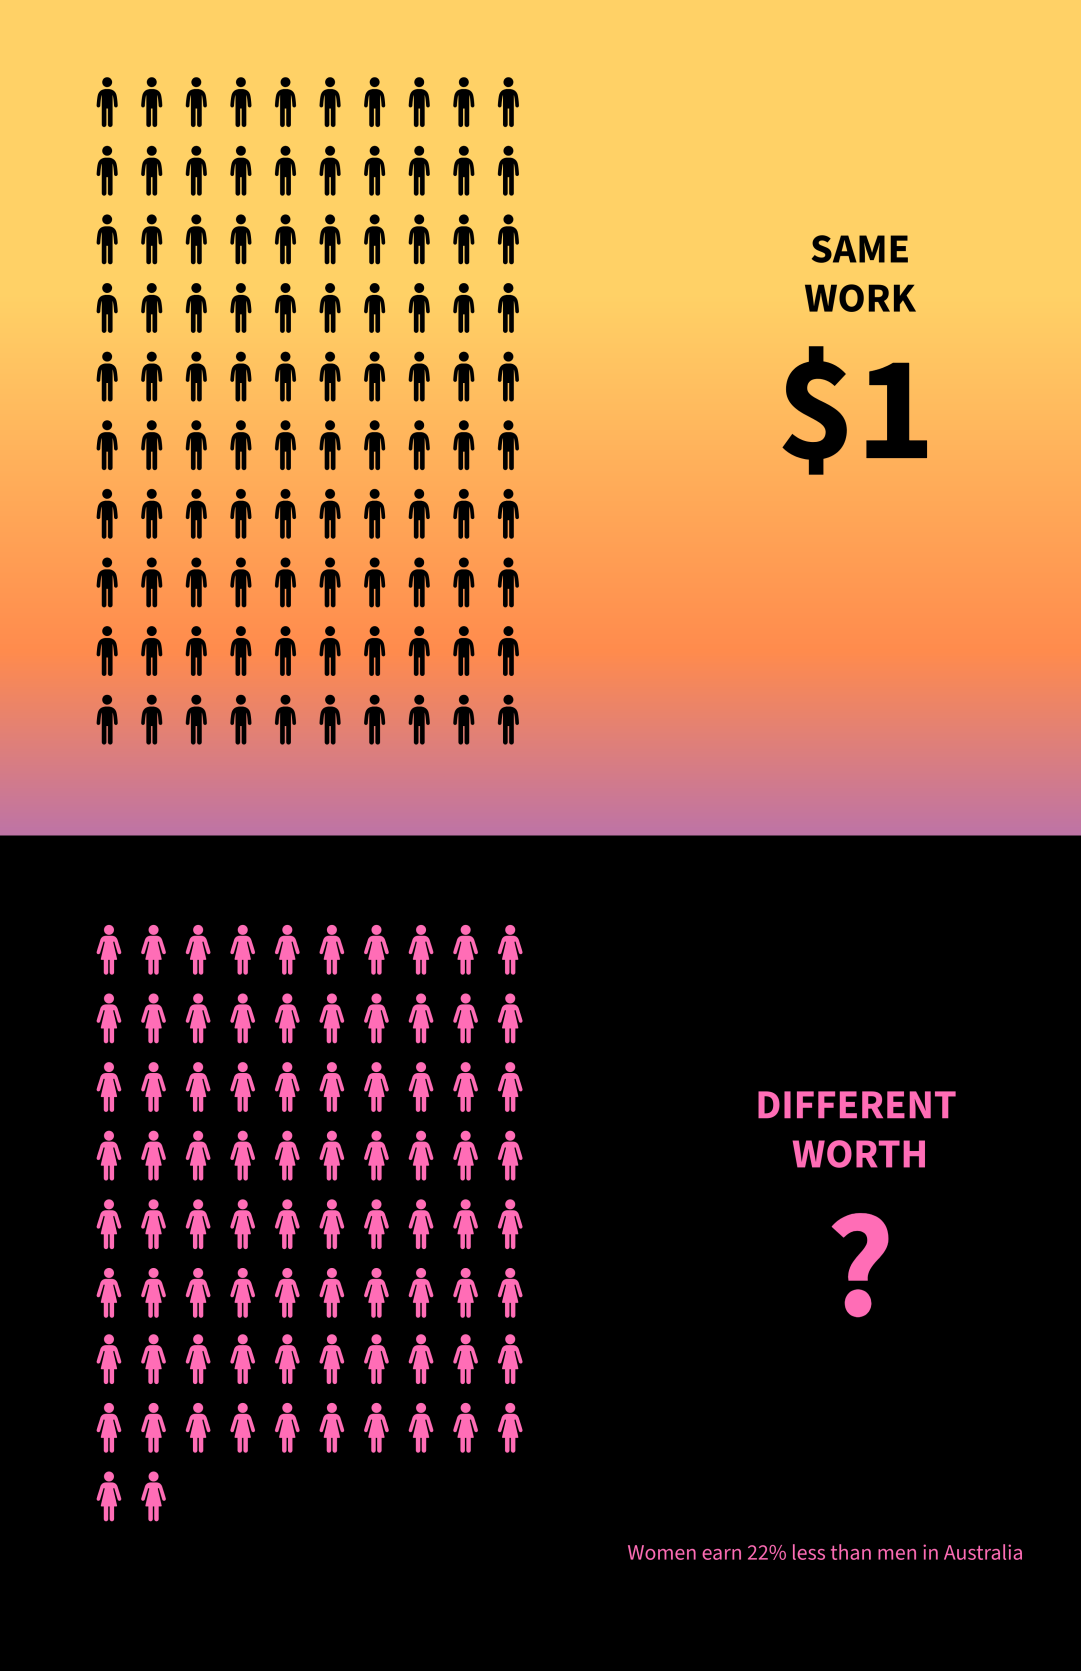
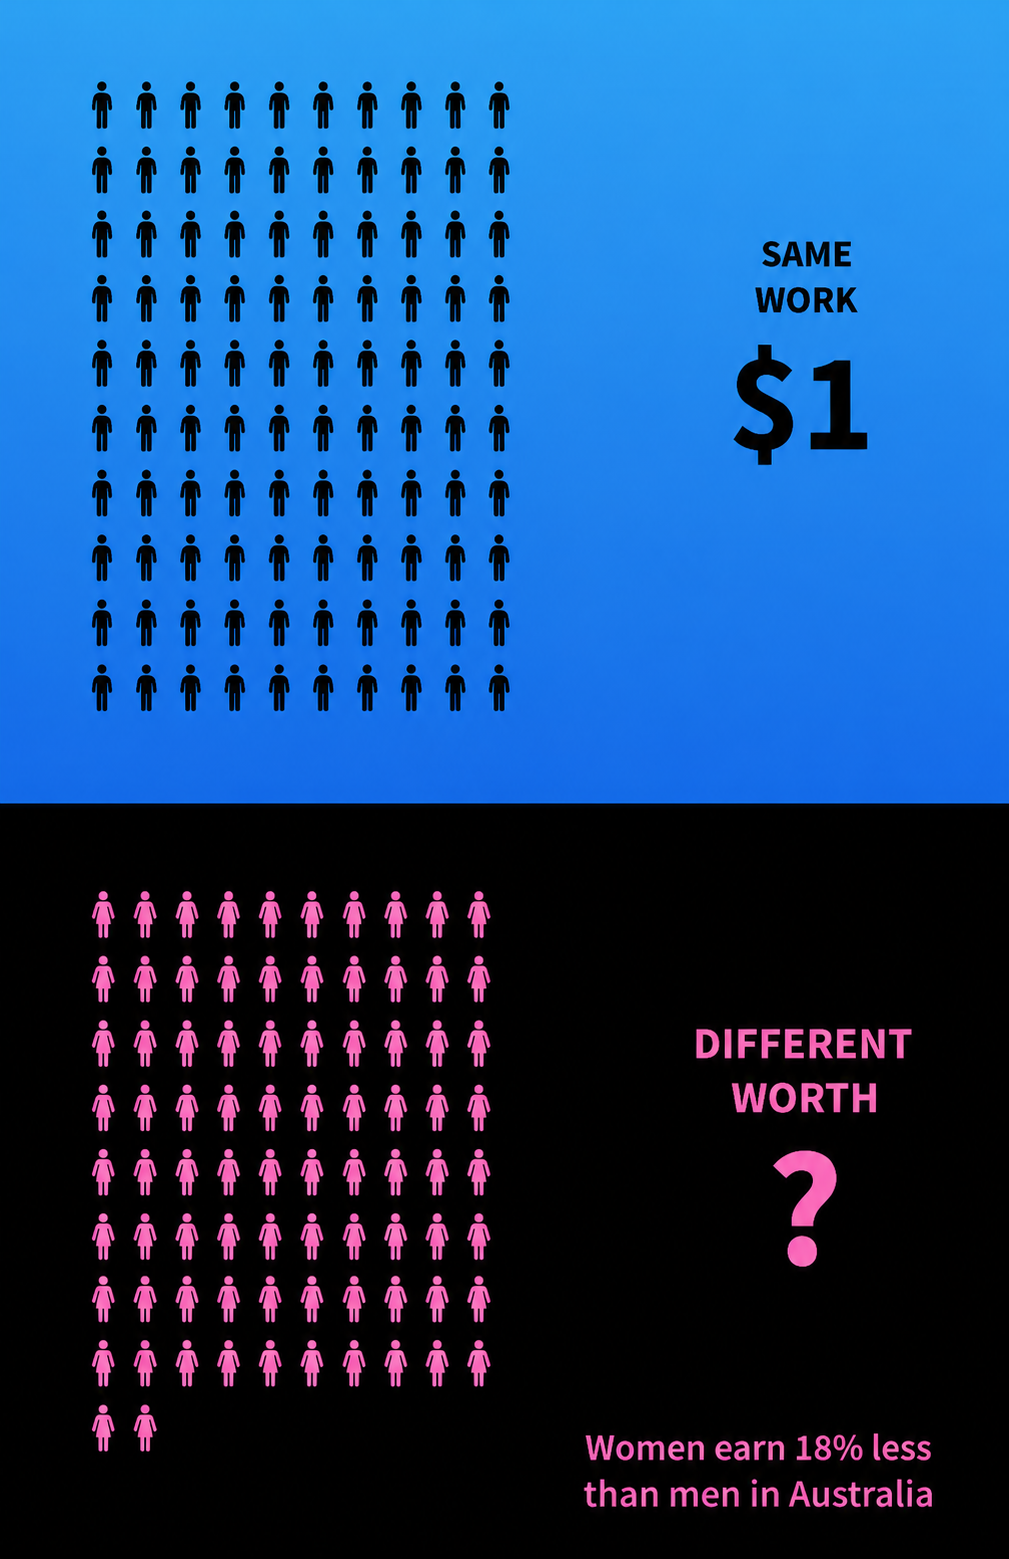
Add lightbox for clickable images, improve feel page content, fix padding, remove em dashes, and update poster images

diff --git a/public/artefacts.html b/public/artefacts.html
@@ -16,6 +16,54 @@
     />
     <link rel="stylesheet" href="styles.css" />
     <script src="script.js" defer></script>
+    <style>
+      .lightbox {
+        display: none;
+        position: fixed;
+        inset: 0;
+        background: rgba(0, 0, 0, 0.9);
+        z-index: 1000;
+        justify-content: center;
+        align-items: center;
+        padding: 2rem;
+      }
+      .lightbox.active {
+        display: flex;
+      }
+      .lightbox img {
+        max-width: 90%;
+        max-height: 90vh;
+        object-fit: contain;
+        border-radius: var(--radius-md);
+      }
+      .lightbox-close {
+        position: absolute;
+        top: 2rem;
+        right: 2rem;
+        background: rgba(255, 255, 255, 0.1);
+        border: none;
+        color: white;
+        font-size: 2rem;
+        width: 3rem;
+        height: 3rem;
+        border-radius: 50%;
+        cursor: pointer;
+        display: flex;
+        align-items: center;
+        justify-content: center;
+        transition: background 0.2s ease;
+      }
+      .lightbox-close:hover {
+        background: rgba(255, 255, 255, 0.2);
+      }
+      .clickable-image {
+        cursor: pointer;
+        transition: opacity 0.2s ease;
+      }
+      .clickable-image:hover {
+        opacity: 0.8;
+      }
+    </style>
   </head>
   <body data-page="artefacts">
     <div class="site-shell">
@@ -53,17 +101,17 @@
           <div>
             <p class="panel-label">Audio piece</p>
             <h3>An interview with Dr. Michaela Guthridge, Ph.D. on the neurological roots of the gender pay gap</h3>
-            <p>Dr. Michaela Guthridge, Ph.D. is an International Women & Girls's Rights Advocate, Empathy Expert, Strategic Thinker, and Social Innovator with 17 years' experience in global social justice research and advocacy. As Senior Policy & Research Officer at SNAICC - National Voice for our Children and former Research Officer at the National Centre for Action on Child Sexual Abuse, she explains how unconscious biases in the brain snowball into societal devaluation of women's work—and how we can retrain our minds to close the gap.</p>
+            <p>Dr. Michaela Guthridge, Ph.D. is an International Women & Girls's Rights Advocate, Empathy Expert, Strategic Thinker, and Social Innovator with 17 years' experience in global social justice research and advocacy. As Senior Policy & Research Officer at SNAICC - National Voice for our Children and former Research Officer at the National Centre for Action on Child Sexual Abuse, she explains how unconscious biases in the brain snowball into societal devaluation of women's work -and how we can retrain our minds to close the gap.</p>
             <details class="podcast-summary">
               <summary>View interview summary</summary>
               <div class="summary-content">
                 <h4>Key Outcomes</h4>
                 <p>Dr. Michaela Guthridge explained the gender wage gap as rooted in neurological unconscious biases that snowball into societal devaluation of women's work, rather than starting at the macro societal level. She emphasized that addressing the gap requires retraining individual brains to form positive associations with women and work, not just policy changes.</p>
                 <h4>Core Insights</h4>
-                <p><strong>Root Cause: Unconscious Bias</strong> — The wage gap originates in the brain's discriminatory processes that form unconscious biases about women's value, which evolve into stereotypes and sexism. These biases lead society to view women's work as "natural" and therefore economically undervalued.</p>
-                <p><strong>Economic Devaluation of Care Work</strong> — Women's care and emotional labor face economic undervaluing facilitated by unconscious biases that consider such work natural rather than skilled. The question of why only women have "moral obligations" for care work is itself problematic—fathers equally have moral implications for caring responsibilities.</p>
-                <p><strong>Effective Intervention: Making Invisible Labor Visible</strong> — A Nepal research project successfully changed community attitudes by having women document all unpaid care responsibilities on top of paid work. When presented to men in the community, this documentation created an "eye-opener" moment that led to new understanding of respect and equality.</p>
-                <p><strong>Path Forward: Brain Retraining Strategy</strong> — Solution requires retraining the brain to create positive associations when seeing women and work, rather than negative ones. Focus on enabling girls to imagine education, employment, and contributions beyond the lowest economic rungs.</p>
+                <p><strong>Root Cause: Unconscious Bias</strong>  - The wage gap originates in the brain's discriminatory processes that form unconscious biases about women's value, which evolve into stereotypes and sexism. These biases lead society to view women's work as "natural" and therefore economically undervalued.</p>
+                <p><strong>Economic Devaluation of Care Work</strong>  - Women's care and emotional labor face economic undervaluing facilitated by unconscious biases that consider such work natural rather than skilled. The question of why only women have "moral obligations" for care work is itself problematic -fathers equally have moral implications for caring responsibilities.</p>
+                <p><strong>Effective Intervention: Making Invisible Labor Visible</strong>  - A Nepal research project successfully changed community attitudes by having women document all unpaid care responsibilities on top of paid work. When presented to men in the community, this documentation created an "eye-opener" moment that led to new understanding of respect and equality.</p>
+                <p><strong>Path Forward: Brain Retraining Strategy</strong>  - Solution requires retraining the brain to create positive associations when seeing women and work, rather than negative ones. Focus on enabling girls to imagine education, employment, and contributions beyond the lowest economic rungs.</p>
               </div>
             </details>
           </div>
@@ -71,10 +119,10 @@
 
         <article class="panel media-panel">
           <div class="artifact-mosaic">
-            <img src="assets/infographic-1.webp" alt="Gauge graphic showing a 22.8 percent manager pay gap" />
-            <img src="assets/infographic-2.webp" alt="Bar graphic comparing full-time and part-time employment shares" />
-            <img src="assets/infographic-4.webp" alt="Table graphic of gender pay gap by Australian state and territory" />
-            <img class="dark-chart-image" src="assets/infographic-3.webp" alt="Line chart showing Australia's total remuneration gender pay gap over time" />
+            <img src="assets/infographic-1.webp" alt="Gauge graphic showing a 22.8 percent manager pay gap" class="clickable-image" />
+            <img src="assets/infographic-2.webp" alt="Bar graphic comparing full-time and part-time employment shares" class="clickable-image" />
+            <img src="assets/infographic-4.webp" alt="Table graphic of gender pay gap by Australian state and territory" class="clickable-image" />
+            <img class="dark-chart-image clickable-image" src="assets/infographic-3.webp" alt="Line chart showing Australia's total remuneration gender pay gap over time" />
           </div>
           <div>
             <p class="panel-label">Infographic</p>
@@ -84,7 +132,7 @@
         </article>
 
         <article class="panel media-panel">
-          <img src="assets/peace-and-justice-header.webp" alt="Strong Institutions campaign header illustration" />
+          <img src="assets/peace-and-justice-header.webp" alt="Strong Institutions campaign header illustration" class="clickable-image" />
           <div>
             <p class="panel-label">Campaign image</p>
             <h3>The visual face of the Strong Institutions campaign</h3>
@@ -94,8 +142,8 @@
 
         <article class="panel media-panel">
           <div class="artifact-mosaic">
-            <img src="assets/gap-poster.webp" alt="The Gap Has Weight poster" />
-            <img src="assets/pay-gap-ai-image.webp" alt="Pay Gap AI Image poster" />
+            <img src="assets/gap-poster.webp" alt="The Gap Has Weight poster" class="clickable-image" />
+            <img src="assets/pay-gap-ai-image.webp" alt="Pay Gap AI Image poster" class="clickable-image" />
           </div>
           <div>
             <p class="panel-label">Posters</p>
@@ -105,7 +153,7 @@
         </article>
 
         <article class="panel media-panel">
-          <img src="assets/physical-object.webp" alt="Physical artefact" />
+          <img src="assets/physical-object.webp" alt="Physical artefact" class="clickable-image" />
           <div>
             <p class="panel-label">Physical artefact</p>
             <h3>The object that gives the argument tangible weight</h3>
@@ -151,5 +199,41 @@
       <p>Feel it. Learn it. Act on it.</p>
     </footer>
     </div>
+    <div class="lightbox" id="lightbox">
+      <button class="lightbox-close" id="lightbox-close">&times;</button>
+      <img id="lightbox-image" src="" alt="">
+    </div>
+    <script>
+      document.addEventListener('DOMContentLoaded', function() {
+        const lightbox = document.getElementById('lightbox');
+        const lightboxImage = document.getElementById('lightbox-image');
+        const lightboxClose = document.getElementById('lightbox-close');
+        const clickableImages = document.querySelectorAll('.clickable-image');
+
+        clickableImages.forEach(img => {
+          img.addEventListener('click', function() {
+            lightboxImage.src = this.src;
+            lightboxImage.alt = this.alt;
+            lightbox.classList.add('active');
+          });
+        });
+
+        lightboxClose.addEventListener('click', function() {
+          lightbox.classList.remove('active');
+        });
+
+        lightbox.addEventListener('click', function(e) {
+          if (e.target === lightbox) {
+            lightbox.classList.remove('active');
+          }
+        });
+
+        document.addEventListener('keydown', function(e) {
+          if (e.key === 'Escape' && lightbox.classList.contains('active')) {
+            lightbox.classList.remove('active');
+          }
+        });
+      });
+    </script>
   </body>
 </html>

diff --git a/public/feel.html b/public/feel.html
@@ -54,17 +54,17 @@
           <div>
             <p class="panel-label">Audio feature</p>
             <h3>An interview with Dr. Michaela Guthridge, Ph.D. on the neurological roots of the gender pay gap</h3>
-            <p>Dr. Michaela Guthridge, Ph.D. is an International Women & Girls's Rights Advocate, Empathy Expert, Strategic Thinker, and Social Innovator with 17 years' experience in global social justice research and advocacy. As Senior Policy & Research Officer at SNAICC - National Voice for our Children and former Research Officer at the National Centre for Action on Child Sexual Abuse, she explains how unconscious biases in the brain snowball into societal devaluation of women's work—and how we can retrain our minds to close the gap.</p>
+            <p>Dr. Michaela Guthridge, Ph.D. is an International Women & Girls's Rights Advocate, Empathy Expert, Strategic Thinker, and Social Innovator with 17 years' experience in global social justice research and advocacy. As Senior Policy & Research Officer at SNAICC - National Voice for our Children and former Research Officer at the National Centre for Action on Child Sexual Abuse, she explains how unconscious biases in the brain snowball into societal devaluation of women's work -and how we can retrain our minds to close the gap.</p>
             <details class="podcast-summary">
               <summary>View interview summary</summary>
               <div class="summary-content">
                 <h4>Key Outcomes</h4>
                 <p>Dr. Michaela Guthridge explained the gender wage gap as rooted in neurological unconscious biases that snowball into societal devaluation of women's work, rather than starting at the macro societal level. She emphasized that addressing the gap requires retraining individual brains to form positive associations with women and work, not just policy changes.</p>
                 <h4>Core Insights</h4>
-                <p><strong>Root Cause: Unconscious Bias</strong> — The wage gap originates in the brain's discriminatory processes that form unconscious biases about women's value, which evolve into stereotypes and sexism. These biases lead society to view women's work as "natural" and therefore economically undervalued.</p>
-                <p><strong>Economic Devaluation of Care Work</strong> — Women's care and emotional labor face economic undervaluing facilitated by unconscious biases that consider such work natural rather than skilled. The question of why only women have "moral obligations" for care work is itself problematic—fathers equally have moral implications for caring responsibilities.</p>
-                <p><strong>Effective Intervention: Making Invisible Labor Visible</strong> — A Nepal research project successfully changed community attitudes by having women document all unpaid care responsibilities on top of paid work. When presented to men in the community, this documentation created an "eye-opener" moment that led to new understanding of respect and equality.</p>
-                <p><strong>Path Forward: Brain Retraining Strategy</strong> — Solution requires retraining the brain to create positive associations when seeing women and work, rather than negative ones. Focus on enabling girls to imagine education, employment, and contributions beyond the lowest economic rungs.</p>
+                <p><strong>Root Cause: Unconscious Bias</strong>  - The wage gap originates in the brain's discriminatory processes that form unconscious biases about women's value, which evolve into stereotypes and sexism. These biases lead society to view women's work as "natural" and therefore economically undervalued.</p>
+                <p><strong>Economic Devaluation of Care Work</strong>  - Women's care and emotional labor face economic undervaluing facilitated by unconscious biases that consider such work natural rather than skilled. The question of why only women have "moral obligations" for care work is itself problematic -fathers equally have moral implications for caring responsibilities.</p>
+                <p><strong>Effective Intervention: Making Invisible Labor Visible</strong>  - A Nepal research project successfully changed community attitudes by having women document all unpaid care responsibilities on top of paid work. When presented to men in the community, this documentation created an "eye-opener" moment that led to new understanding of respect and equality.</p>
+                <p><strong>Path Forward: Brain Retraining Strategy</strong>  - Solution requires retraining the brain to create positive associations when seeing women and work, rather than negative ones. Focus on enabling girls to imagine education, employment, and contributions beyond the lowest economic rungs.</p>
               </div>
             </details>
           </div>
@@ -78,7 +78,10 @@
           </p>
           <p>
             It names the part the spreadsheet cannot hold on its own: how lower pay reshapes housing, care, study,
-            movement, and long-term confidence. The gap is not just a number—it is a condition that narrows what becomes possible in a life.
+            movement, and long-term confidence. The gap is not just a number -it is a condition that narrows what becomes possible in a life.
+          </p>
+          <p>
+            When someone earns less, they have fewer options for where they can live, what they can afford to study, how they can care for family members, and what risks they can take in their career. This narrowing compounds over time, creating a cascade effect where early disadvantages lead to later limitations in wealth, security, and opportunity.
           </p>
         </article>
       </section>
@@ -90,6 +93,9 @@
           <p>
             The pay gap is often spoken about like an abstract workplace statistic. Here it appears as a daily condition that affects exit options, recovery time, care work, and future security. It shapes where people can live, how they can care for others, what risks they can afford to take, and what futures they can imagine for themselves and their families.
           </p>
+          <p>
+            This is not just about having less disposable income. It is about having less freedom to leave unsafe situations, less time to recover from illness or stress, less capacity to support family members who depend on you, and less ability to plan for long-term security. The gap creates a structural disadvantage that affects every dimension of life.
+          </p>
         </article>
 
         <article class="panel">
@@ -97,6 +103,9 @@
           <h3>The data behind the feeling</h3>
           <p>
             Once the audience feels the cost, the data stops reading like a distant report and starts reading like evidence of a shared condition. The numbers become proof of what people already experience: that the gap is not a theoretical problem but a lived reality that cuts into time, safety, and the ability to plan for the future.
+          </p>
+          <p>
+            The 79 cents on the dollar, the 22.8% manager pay gap, the $52,000 annual shortfall at peak career stages -these are not just statistics. They are the mathematical expression of lived experiences: the woman who cannot afford to leave an unsafe workplace, the mother who cannot afford childcare to return to full-time work, the professional who watches male colleagues advance while she stays in place despite equal qualifications and effort.
           </p>
           <a class="text-link" href="learn.html">See the data</a>
         </article>

diff --git a/public/act.html b/public/act.html
@@ -74,7 +74,7 @@
           <p>The gender pay gap persists in part because it remains invisible in everyday conversation. By making it visible, you help create the social pressure needed for change.</p>
           <ul class="action-list">
             <li>Share the infographic in classrooms, social feeds, and group chats so the issue becomes discussable instead of abstract. When people can see the numbers and understand the impact, the issue becomes harder to dismiss as someone else's problem.</li>
-            <li>Start one salary-transparency conversation in a place that usually avoids it—whether with friends, family, or colleagues. Normalising conversations about pay helps break the culture of secrecy that allows unequal pay to continue unchecked.</li>
+            <li>Start one salary-transparency conversation in a place that usually avoids it - whether with friends, family, or colleagues. Normalising conversations about pay helps break the culture of secrecy that allows unequal pay to continue unchecked.</li>
             <li>Support unions, policies, and workplaces that publish salary bands and measure progress publicly. Transparency is a powerful tool for accountability, and supporting organisations that commit to it helps create market pressure for others to follow.</li>
           </ul>
         </article>
@@ -84,7 +84,7 @@
           <h3>Turn recognition into bargaining power.</h3>
           <p>Understanding that you are experiencing underpayment is the first step. The next is building the evidence, confidence, and support network needed to negotiate for fair compensation.</p>
           <ul class="action-list">
-            <li>Compare your role with published salary benchmarks and document responsibilities, outputs, and progression points. Evidence is your strongest tool in negotiation—knowing what your role is worth in the market gives you concrete grounds for discussion.</li>
+            <li>Compare your role with published salary benchmarks and document responsibilities, outputs, and progression points. Evidence is your strongest tool in negotiation - knowing what your role is worth in the market gives you concrete grounds for discussion.</li>
             <li>Use the podcast and infographic as conversation tools before or during negotiation so the issue is framed as structural, not personal. These materials help demonstrate that unequal pay is a systemic issue, not a reflection of individual worth or performance.</li>
             <li>Identify one support channel now: manager, HR, union, Fair Work, legal aid, or student services. You do not need to navigate this alone. Knowing where to turn for support before you need it gives you options and reduces the pressure to accept unfair conditions.</li>
           </ul>
@@ -99,11 +99,11 @@
         <article id="institutions" class="panel">
           <p class="panel-label">Employers and institutions</p>
           <h3>Use institutional power where it actually counts.</h3>
-          <p>Institutions have the power to create structural change through policy, measurement, and accountability. Individual awareness is not enough—systemic problems require systemic solutions.</p>
+          <p>Institutions have the power to create structural change through policy, measurement, and accountability. Individual awareness is not enough - systemic problems require systemic solutions.</p>
           <ul class="action-list">
-            <li>Audit pay bands, promotion pipelines, and discretionary bonuses rather than assuming equal-pay rules solve the gap on their own. Formal equal-pay policies are necessary but not sufficient—actual pay equity requires examining where disparities exist in practice and addressing them directly.</li>
+            <li>Audit pay bands, promotion pipelines, and discretionary bonuses rather than assuming equal-pay rules solve the gap on their own. Formal equal-pay policies are necessary but not sufficient - actual pay equity requires examining where disparities exist in practice and addressing them directly.</li>
             <li>Publish salary ranges and review care-related penalties in policy design, especially where senior roles are treated as inflexible by default. When salary information is transparent and workplace structures accommodate care responsibilities, it becomes harder for unconscious biases to dictate who advances and who does not.</li>
-            <li>Pair your internal audit with targets, public reporting, and a clear timeline so accountability is visible. What gets measured gets managed—public commitment to specific goals creates the pressure needed to drive actual change rather than symbolic gestures.</li>
+            <li>Pair your internal audit with targets, public reporting, and a clear timeline so accountability is visible. What gets measured gets managed - public commitment to specific goals creates the pressure needed to drive actual change rather than symbolic gestures.</li>
           </ul>
           <p class="source-note">
             Supporting research:

diff --git a/public/styles.css b/public/styles.css
@@ -327,6 +327,10 @@ li {
   gap: 1rem;
 }
 
+.artifact-grid {
+  padding: 1.5rem 0;
+}
+
 .route-grid > *,
 .compact-grid > *,
 .content-grid > *,
